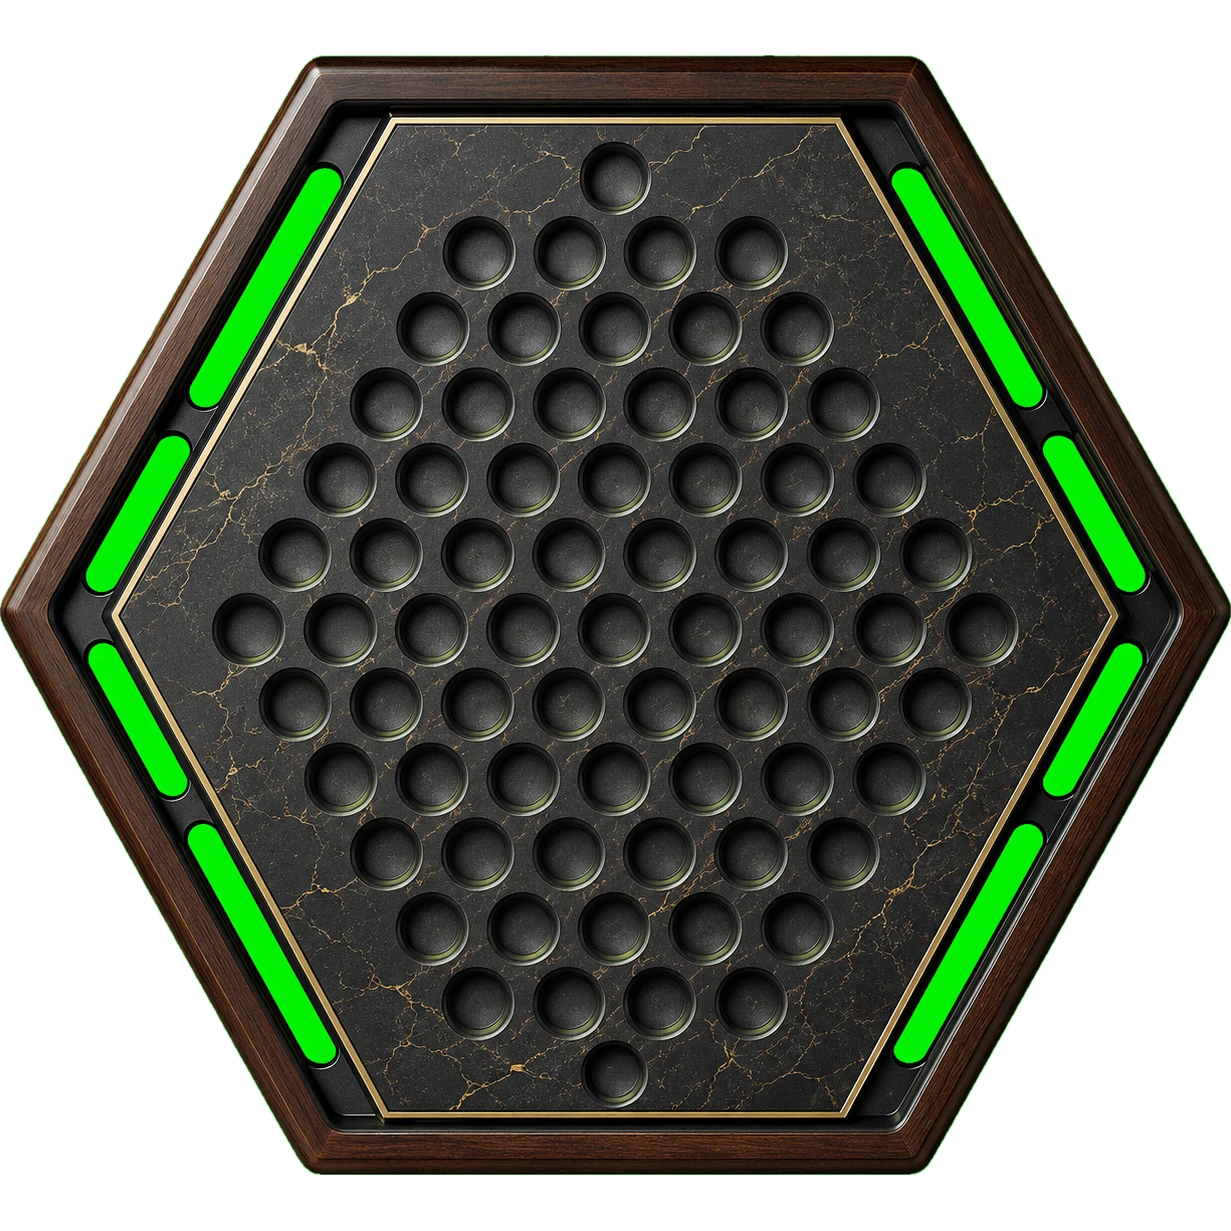
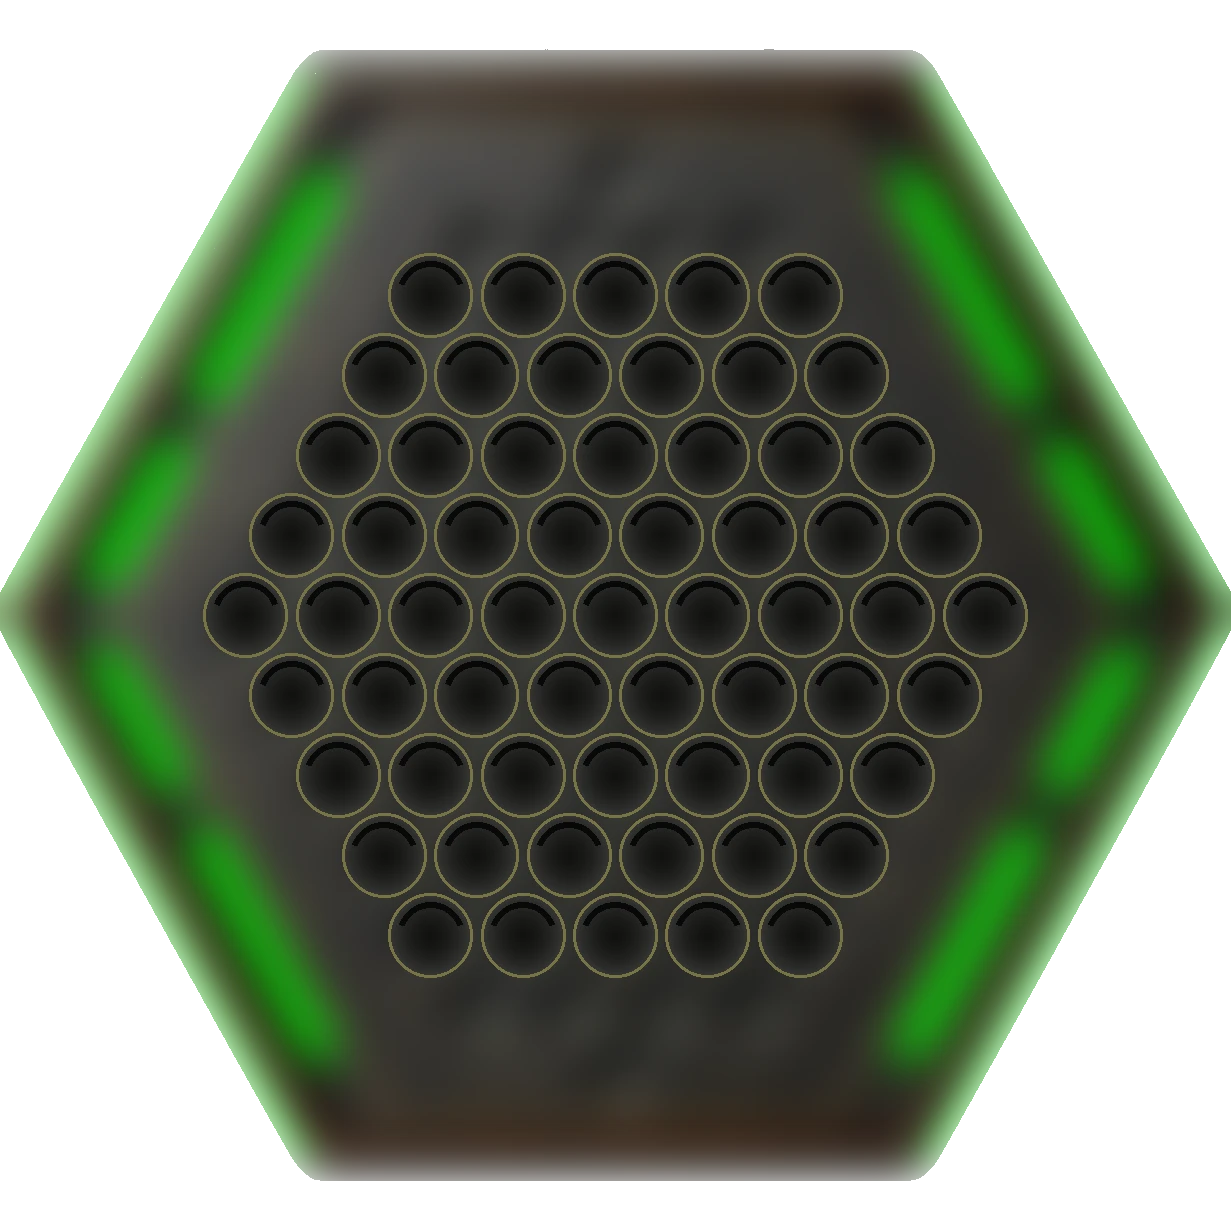
Abalone : plateau regenere (61 alveoles regulieres, cadre bois conserve) - alignement garanti

diff --git a/www/abalone.html b/www/abalone.html
@@ -122,7 +122,7 @@ const canvas=document.getElementById('abaCanvas');
 let engine,scene,camera,shadow, marbleMat={}, marbles={}, arrows=[], sel=[], current=1, mode='2p', out={1:0,2:0}, busy=false;
 // --- Calage sur la grille de trous du plateau (mesuré sur l'image) ---
 const PS=12;            // taille du plan (= largeur de l'image du plateau)
-const CXG=0.481, CYG=0.500;   // centre de la grille de trous (fraction de l'image)
+const CXG=0.500, CYG=0.500;   // grille redessinée : parfaitement centrée et régulière
 const SPACING=0.0751;  // espacement horizontal (fraction) par pas de colonne
 const VS=0.0650;       // espacement vertical (fraction) par rangée
 const RAD=0.44, Y=0.30;// rayon des billes, hauteur au repos (nichées dans l'alvéole)

diff --git a/www/sw.js b/www/sw.js
@@ -1,5 +1,5 @@
 /* Service worker — Les Dés du Comptoir (hors-ligne) */
-const V='ddc-20260719151647';
+const V='ddc-20260719154046';
 const CORE=["./", "./abalone.html", "./awale-234.html", "./awale-kalah.html", "./awale-oware.html", "./awale.js", "./awale3d.js", "./board3d.js", "./card-shell.js", "./cards.css", "./cards.js", "./carte-bataille.html", "./carte-hearts.html", "./carte-huit.html", "./carte-menteur.html", "./carte-pouilleux.html", "./carte-president.html", "./carte-rami.html", "./carte-scopa.html", "./carte-tarot.html", "./cochon-troue.html", "./dames-classique.html", "./dice-engine.js", "./dom3d.js", "./domino-classique.html", "./domino-matador.html", "./domino-toutcinq.html", "./domino-train.html", "./dominos.js", "./echecs-classique.html", "./echelles.html", "./favicon.png", "./game-10000.html", "./game-421.html", "./game-boite.html", "./game-boston.html", "./game-chicago.html", "./game-cochon.html", "./game-core.js", "./game-martinetti.html", "./game-mexico.html", "./game-passedix.html", "./game-poker.html", "./game-yams.html", "./game-zanzibar.html", "./icon-192.png", "./icon-512.png", "./index.html", "./manifest.webmanifest", "./monopoly.html", "./net-games.js", "./net-games2.js", "./net-games3.js", "./net-games4.js", "./net-games5.js", "./net-games6.js", "./net-games7.js", "./net-games8.js", "./net.js", "./oie-classique.html", "./oie-delirant.html", "./oie-delirant108.html", "./origins-data.js", "./p4.html", "./p43d.js", "./parcours.js", "./pig3d.js", "./r3d.js", "./reglages.html", "./regles.html", "./reversi.html", "./rules-data.js", "./salon.html", "./stats.html", "./style.css", "./sw.js", "./tournoi.html", "./uno.html"];
 self.addEventListener('install', e=>{
   e.waitUntil(caches.open(V).then(c=>c.addAll(CORE).catch(()=>{})).then(()=>self.skipWaiting()));